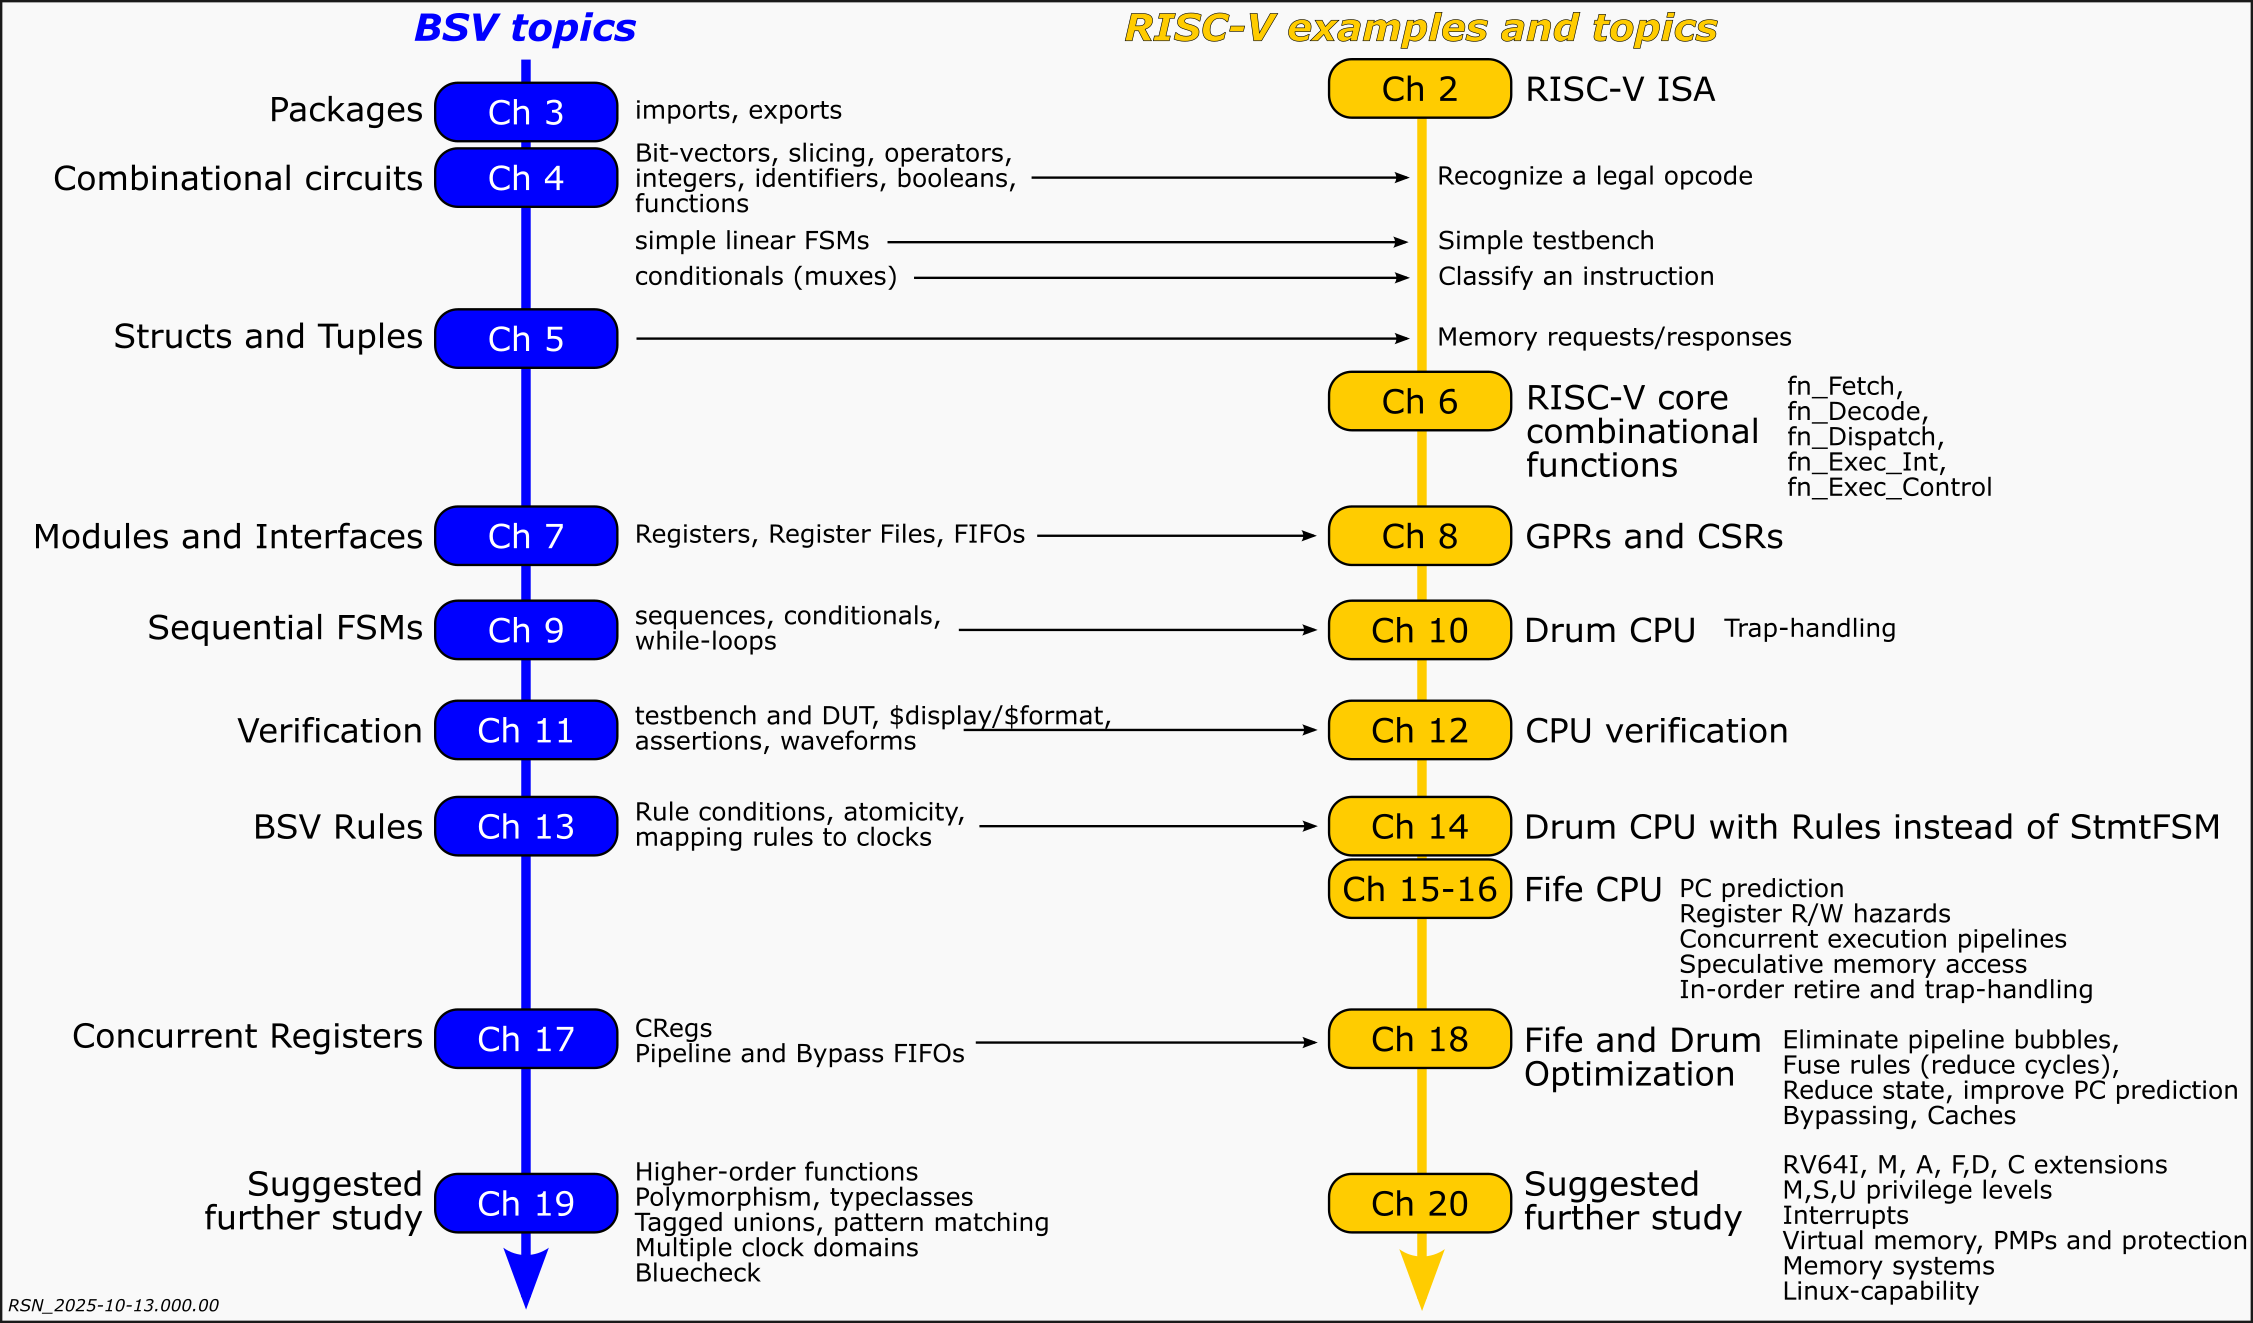
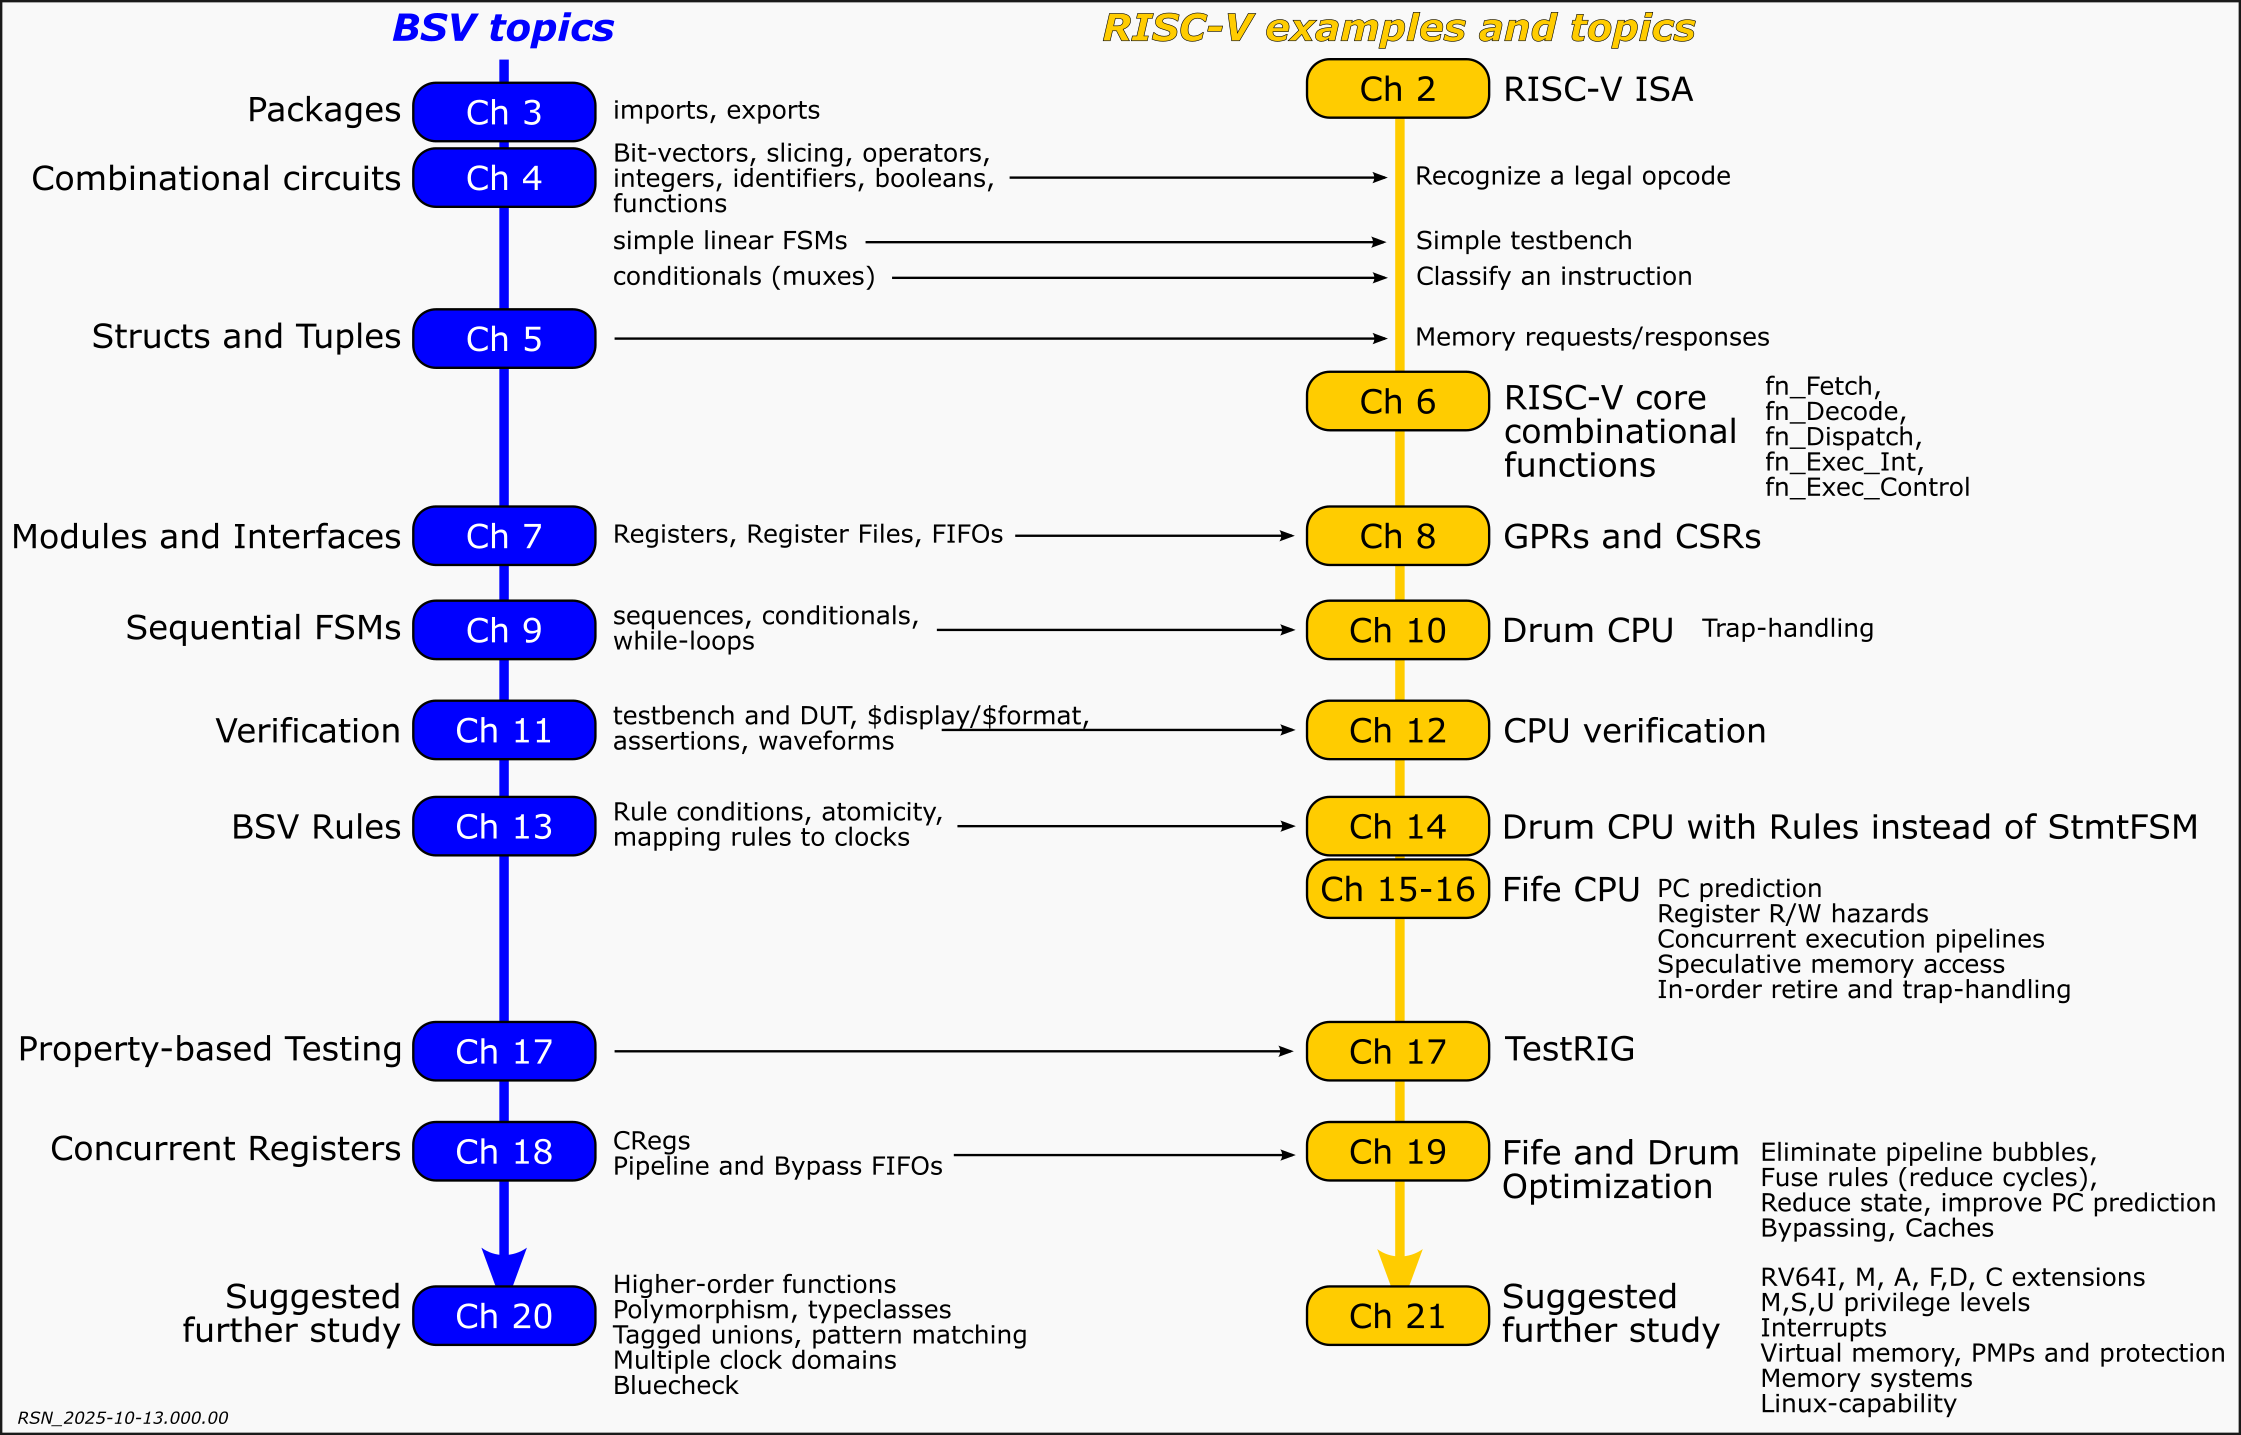
Book: inserted placehoder Ch 17 for PBT

Changed region(s): [[0.0, 0.0, 0.9996, 0.9917], [0.0, 0.9607, 0.1249, 1.0]]

diff --git a/Book/ch010/ch_intro.tex b/Book/ch010/ch_intro.tex
@@ -167,13 +167,26 @@ Of course, simulation ({\BLUESIM} or Verilog) runs much more slowly
 and so simulation is useful primarily for early debugging and analysis
 of the design while running small RISC-V programs.
 
-In Chapters~\ref{ch_BSV_verification}, \ref{ch_RISCV_verification},
-and \ref{ch_Optimization} we discuss debugging and optimization of our
-RISC-V designs, in particular using \emph{traces} that are generated
-during simulation.  We will also discuss a semi-formal mechanism
-called {\PBT}, or Property-Based Testing, to verify the
-CPUs.\footnote{{\PBT} is the generic name for tools like Haskell's
-\emph{QuickCheck} (\url{https://en.wikipedia.org/wiki/QuickCheck}).}
+In Chapters~\ref{ch_BSV_verification} and \ref{ch_RISCV_verification},
+respectively, we discuss debugging and verification of {\BSV} designs
+in general, and CPUs in particular.  These are based on \emph{traces}
+that are generated during simulation.
+
+In Chapter~\ref{ch_PBT} we discuss a semi-formal mechanism called
+{\PBT}, or Property-Based Testing, to verify designs.\footnote{{\PBT}
+is the generic name for tools like Haskell's \emph{QuickCheck}
+(\url{https://en.wikipedia.org/wiki/QuickCheck}).}  The general
+principles of {\PBT} are incorporated in a RISC-V CPU-specific testing
+framework called {\TESTRIG}, also discussed in this chapter.
+
+In Chapter~\ref{ch_Rules_II} we discuss {\BSV}'s ``CRegs''
+(``Concurrent Registers'') which provide a principled way to ``fuse''
+separate rules so that they can execute in a single clock, where
+previously those rules could only execute in separate clocks.  This
+plays a central role in optimization of our RISC-V designs, for
+example to reduce the latency between register read and write, PC
+redirection and resumption, {\etc}.  These techniques are described in
+Chapter~\ref{ch_Optimization}.
 
 We will discuss how to process our Verilog RTL through an FPGA
 synthesis tool to create an FPGA bitfile which can then be loaded into

diff --git a/Book/Book_BLang_RISCV.tex b/Book/Book_BLang_RISCV.tex
@@ -249,13 +249,15 @@
 % ----------------------------------------------------------------
 \include{ch160/ch_Fife_Code}
 % ----------------------------------------------------------------
-\include{ch170/ch_Rules_II}
+\include{ch170_PBT/ch_PBT}
 % ----------------------------------------------------------------
-\include{ch180/ch_Optimization}
+\include{ch180_CRegs/ch_Rules_II}
 % ----------------------------------------------------------------
-\include{ch190/ch_BSV_Further_Study}
+\include{ch190_Opt_Fife_Drum/ch_Optimization}
 % ----------------------------------------------------------------
-\include{ch200/ch_RISCV_Further_Study}
+\include{ch200_BSV_Further_Study/ch_BSV_Further_Study}
+% ----------------------------------------------------------------
+\include{ch210_RISCV_Further_Study/ch_RISCV_Further_Study}
 % ----------------------------------------------------------------
 
 % ----------------------------------------------------------------

diff --git a/Book/ch170_PBT/ch_PBT.tex b/Book/ch170_PBT/ch_PBT.tex
@@ -1,0 +1,31 @@
+% -*- mode: fundamental -*-
+
+% ****************************************************************
+
+\chapter{PBT: Property-based Testing}
+
+\markboth{Ch \arabic{chapter}: PBT: Property-based Testing}{\copyrightnotice}
+
+\setcounter{page}{1}
+% \renewcommand{\thepage}{\arabic{page}}
+\renewcommand{\thepage}{\arabic{chapter}-\arabic{page}}
+
+\label{ch_PBT}
+
+% ****************************************************************
+
+% ----------------
+\vspace{2ex}
+
+\centerline{\includegraphics[width=1in,angle=0]{Figures/Fig_Under_Construction}}
+
+\vspace{2ex}
+% ----------------
+
+% ****************************************************************
+
+\section{Introduction}
+
+... to be written ...
+
+% ****************************************************************

diff --git a/Book/ch120/ch_RISCV_Verification.tex b/Book/ch120/ch_RISCV_Verification.tex
@@ -685,7 +685,7 @@ than any simulation.
 
 For {\FIFE} and {\DRUM} we use a symmetric tandem-verification setup
 called {\TESTRIG} from the University of Cambridge.  We postpone
-details of this until Chapter~\ref{ch_TestRIG} which follows our
+details of this until Chapter~\ref{ch_PBT} which follows our
 discussion of {\FIFE}, because some of the more interesting naunces
 concern pipelining.  For now, briefly:
 
@@ -718,6 +718,6 @@ concern pipelining.  For now, briefly:
 \end{itemize}
 
 We will discuss {\TESTRIG} for {\FIFE} and {\DRUM} in detail in
-Chapter~\ref{ch_TestRIG}.
+Chapter~\ref{ch_PBT}.
 
 % ****************************************************************
